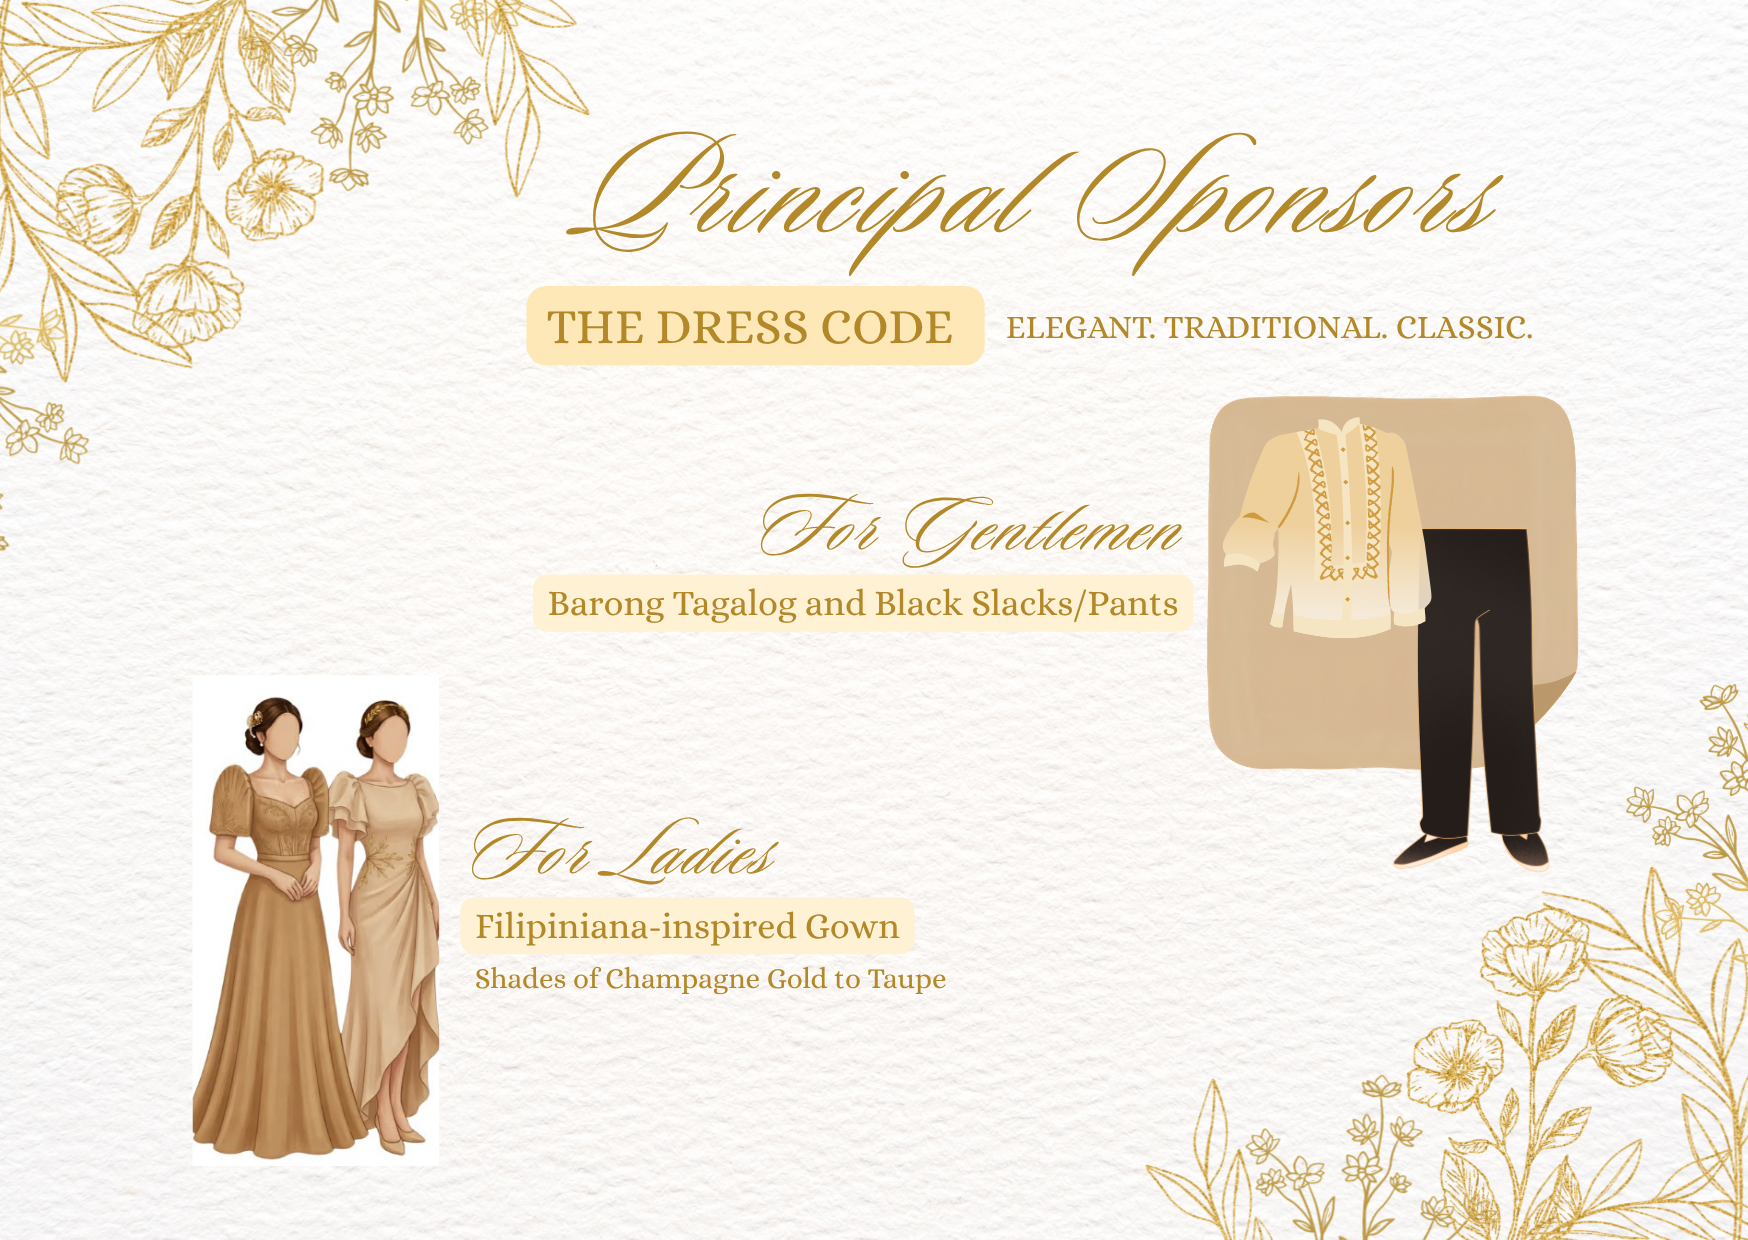
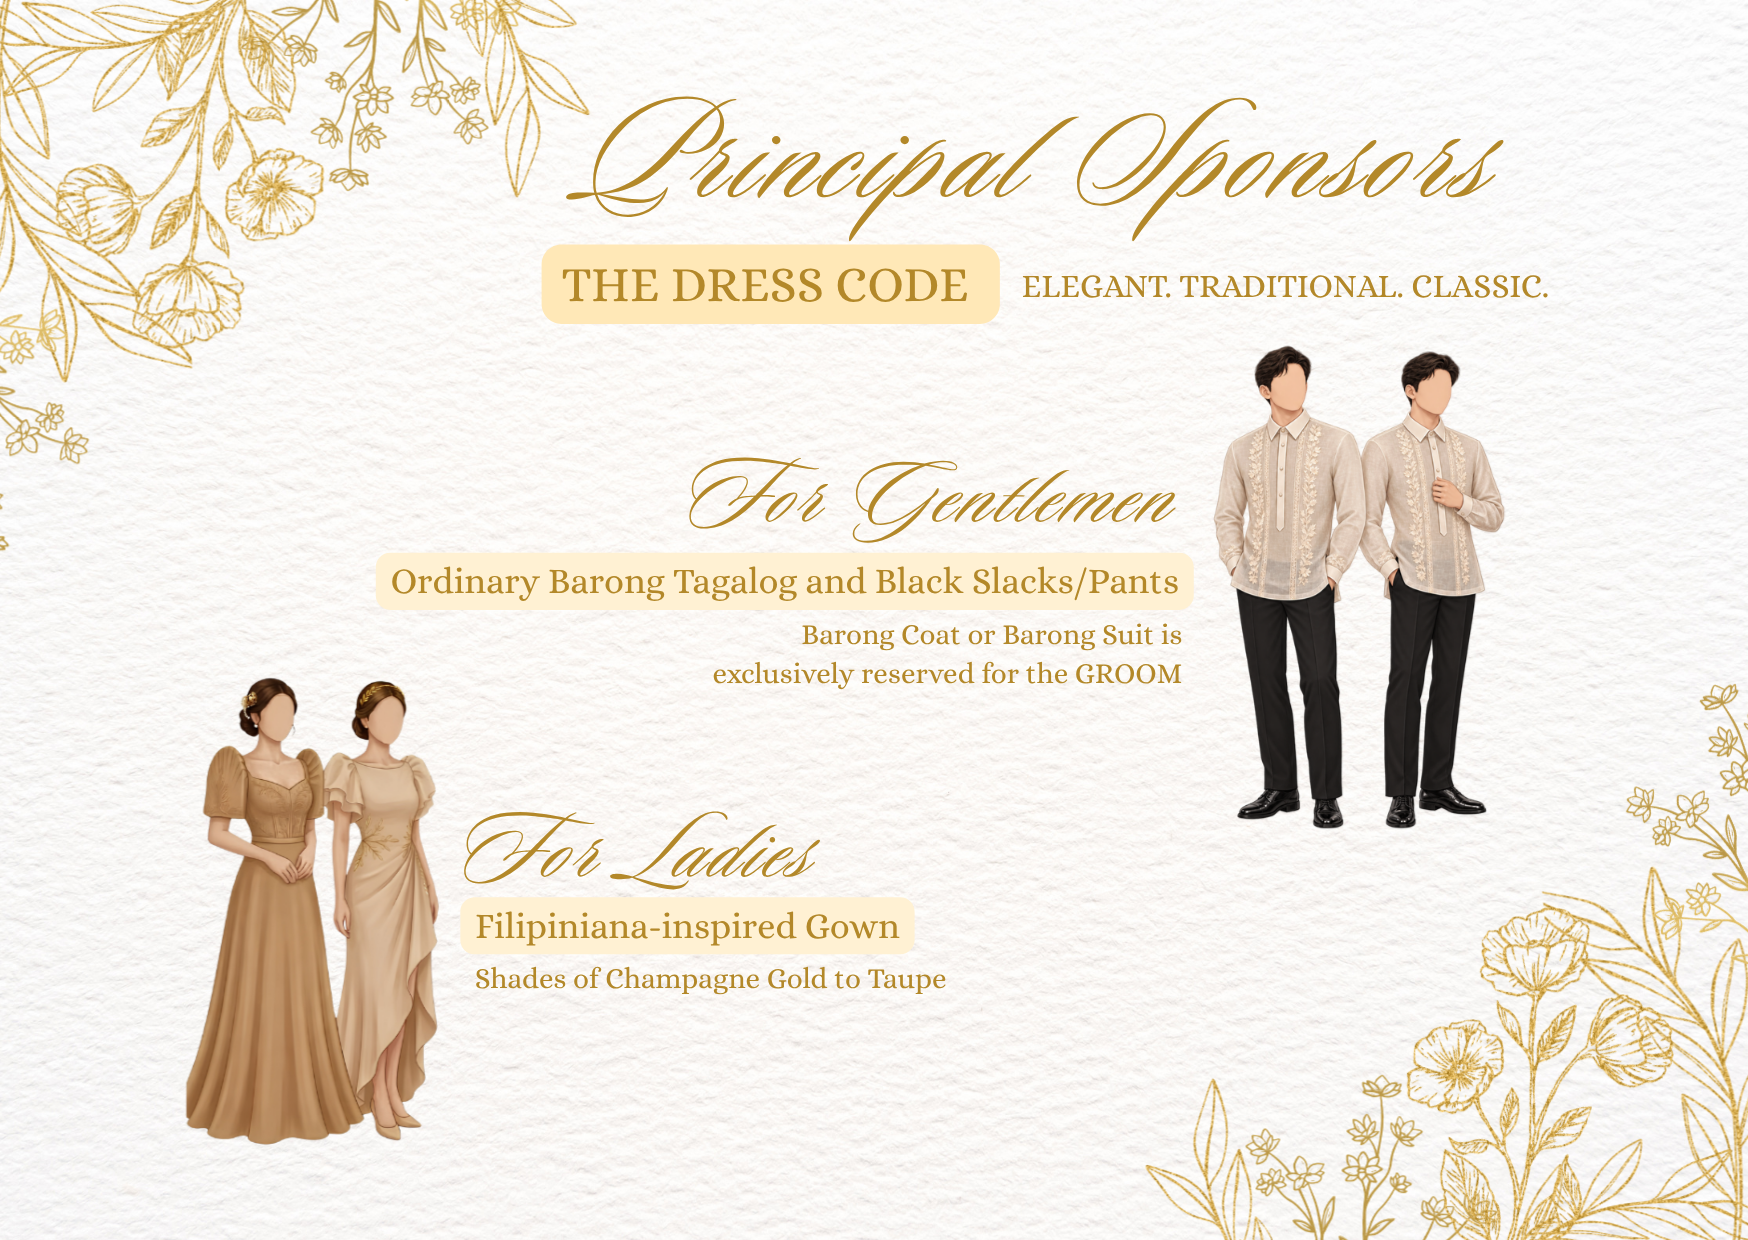
dress code, monogram

Changed region(s): [[0.2162, 0.0919, 0.9268, 0.7048], [0.0927, 0.5516, 0.4634, 0.95]]

diff --git a/src/components/DressCode.tsx b/src/components/DressCode.tsx
@@ -1,12 +1,36 @@
+import { useState } from "react";
 import { motion } from "framer-motion";
 import { wedding } from "../content/weddingContent";
 import { SectionHeading } from "./SectionHeading";
-import { MediaGrid } from "./MediaGrid";
+import { Lightbox } from "./Lightbox";
+import { useMedia } from "../hooks/useMedia";
+import type { MediaItem } from "../lib/supabase";
 import { FloralCorner, ROSE_BOUQUET, ROSE_SPRAY } from "./decor/FloralAccents";
 
 const { dressCode } = wedding;
 
+/** The cards that ship with the site, shaped like uploaded rows. */
+const BUNDLED_CARDS: MediaItem[] = wedding.assets.attireCards.map(
+  (card, index) => ({
+    id: `bundled-attire-${index}`,
+    category: "dress_code",
+    media_type: "image",
+    url: card.src,
+    caption: card.caption,
+    sort_order: index,
+  }),
+);
+
 export function DressCode() {
+  // Uploaded cards stand in for the bundled pair rather than queueing up
+  // behind them: they are the same two cards re-exported, and showing both
+  // sets would print the dress code twice. Re-exporting from Canva and
+  // running `npm run upload-media` therefore needs no redeploy, while the
+  // bundled copies keep the section filled if Supabase is unreachable.
+  const { items: uploaded } = useMedia("dress_code");
+  const cards = uploaded.length > 0 ? uploaded : BUNDLED_CARDS;
+  const [activeIndex, setActiveIndex] = useState<number | null>(null);
+
   return (
     <section
       id="dress-code"
@@ -61,37 +85,39 @@ export function DressCode() {
           ))}
         </div>
 
-        {/* The wedding palette, offered to guests as colour guidance. */}
-        <motion.div
-          initial={{ opacity: 0, y: 22 }}
-          whileInView={{ opacity: 1, y: 0 }}
-          viewport={{ once: true, amount: 0.4 }}
-          transition={{ duration: 0.8 }}
-          className="mt-14 text-center"
-        >
-          <h3 className="font-display text-base uppercase tracking-[0.24em] text-maroon-900 sm:text-lg">
-            Our Colour Palette
-          </h3>
-          <ul className="mt-8 flex flex-wrap items-start justify-center gap-6 sm:gap-9">
-            {dressCode.palette.map((swatch) => (
-              <li key={swatch.hex} className="w-20 sm:w-24">
-                <span
-                  className="mx-auto block aspect-square w-full rounded-full shadow-[0_10px_26px_-14px_rgba(63,10,10,0.7)] ring-1 ring-inset ring-maroon-950/25"
-                  style={{ backgroundColor: swatch.hex }}
-                  aria-hidden="true"
-                />
-                <span className="mt-3 block font-body text-base font-medium uppercase tracking-[0.06em] text-ink/85">
-                  {swatch.name}
-                </span>
-              </li>
-            ))}
-          </ul>
-        </motion.div>
-
-        <div className="mt-14">
-          <MediaGrid category="dress_code" columns="three" hideWhenEmpty />
+        {/* One card per row, uncropped and at the full width of the sheet.
+            Side by side they would be about half this wide, and the small
+            print on them — the shades, the "no jeans" line — stops being
+            readable well before that. They are still tight on a phone, so
+            each one opens full-screen to be pinched. */}
+        <div className="mt-14 space-y-8 sm:space-y-10">
+          {cards.map((card, index) => (
+            <motion.button
+              key={card.id}
+              type="button"
+              onClick={() => setActiveIndex(index)}
+              initial={{ opacity: 0, y: 24 }}
+              whileInView={{ opacity: 1, y: 0 }}
+              viewport={{ once: true, amount: 0.25 }}
+              transition={{ duration: 0.75, delay: Math.min(index, 4) * 0.08 }}
+              className="painted-edge block w-full cursor-zoom-in overflow-hidden border border-gold-deep/35 shadow-[0_18px_44px_-26px_rgba(63,10,10,0.75)] transition-transform duration-500 hover:-translate-y-1"
+              aria-label={`${card.caption ?? "Dress code card"} — tap to enlarge`}
+            >
+              <img
+                src={card.url}
+                alt={card.caption ?? ""}
+                loading="lazy"
+                className="block w-full"
+              />
+            </motion.button>
+          ))}
         </div>
       </div>
+
+      <Lightbox
+        item={activeIndex === null ? null : (cards[activeIndex] ?? null)}
+        onClose={() => setActiveIndex(null)}
+      />
     </section>
   );
 }

diff --git a/src/content/weddingContent.ts b/src/content/weddingContent.ts
@@ -50,7 +50,7 @@ export const wedding = {
       time: "3:00 PM",
       venue: "Viridis Countryside Garden",
       address: "A. Mabini St, Amadeo, 4119 Cavite",
-      note: "Kindly be seated by 2:30 PM.",
+      // note: "Kindly be seated by 2:30 PM.",
     },
   ],
 
@@ -81,17 +81,9 @@ export const wedding = {
   /* ---- Dress code --------------------------------------------- */
   dressCode: {
     title: "Formal / Semi-Formal",
-    ladies: "Long dress or elegant cocktail dress in the palette below.",
-    gentlemen: "Barong Tagalog or suit, paired with dark slacks.",
+    ladies: "Elegant long dress in the palette below.",
+    gentlemen: "Barong Tagalog, paired with chocolate brown slacks.",
     // note: "We kindly ask our guests to avoid wearing white, ivory or cream.",
-    // The wedding palette, shown to guests as colour guidance.
-    palette: [
-      { name: "Deep Maroon", hex: "#7A1010" },
-      { name: "Burgundy", hex: "#5C0D0D" },
-      { name: "Cream", hex: "#FBF0DC" },
-      { name: "Antique Gold", hex: "#C9A05B" },
-      { name: "Champagne", hex: "#E3CDA8" },
-    ],
   },
 
   /* ---- RSVP ---------------------------------------------------- */
@@ -99,7 +91,7 @@ export const wedding = {
     // TODO: confirm. Set to about two and a half weeks before the day.
     deadlineLabel: "September 30, 2026",
     intro:
-      "Kindly let us know if you can join us. We have reserved seats for the names on your invitation.",
+      "Let us know if you can make it! We have seats saved just for you.",
     // Guests cannot request more seats than this.
     maxPartySize: 6,
     thankYouTitle: "Thank you!",
@@ -129,6 +121,16 @@ export const wedding = {
     // only ever fetched once that happens — see the note on <audio> in App.
     themeSong: "/theme/themesong.mp3",
     mainPicture: "/theme/main_picture.webp",
+    // The JL crest, standing over a section heading. Keyed off the white it
+    // was drawn on. Two cuts, because one cannot serve both grounds: the
+    // artwork's own deep gold is drawn for paper, and composited onto the
+    // maroon it lands at about (126,69,4) against a (63,10,10) panel —
+    // present, but barely. The panel cut is repainted champagne and its
+    // filigree lifted out of half-opacity.
+    monogramMark: {
+      onPaper: "/theme/monogram.webp",
+      onPanel: "/theme/monogram-light.webp",
+    },
     // Gold rose artwork. The order is fixed — decor/FloralAccents names
     // each one by shape, and the components pick by shape, not by number.
     goldRoses: [
@@ -157,6 +159,21 @@ export const wedding = {
       // petals arc down the side — bottom-right corner
       side: "/theme/grose-corner-side.webp",
     },
+    // The attire cards, in place of the swatch list that used to stand
+    // here: each carries its palette, silhouettes and rules as one piece of
+    // artwork. Uploading dress_code media through Supabase takes over from
+    // these rather than adding to them — see the note in DressCode.
+    attireCards: [
+      {
+        src: "/theme/attire-sponsors.webp",
+        caption:
+          "The dress code for principal sponsors: barong and Filipiniana, champagne gold to taupe",
+      },
+      {
+        src: "/theme/attire-guests.webp",
+        caption: "The dress code for bridesmaids, groomsmen and guests",
+      },
+    ],
     // The Highlights gallery. These ship with the site and appear ahead of
     // anything later added through Supabase. The caption is used as the
     // photo's alt text too, so keep it descriptive as well as fond.

diff --git a/src/components/decor/FloralAccents.tsx b/src/components/decor/FloralAccents.tsx
@@ -14,6 +14,9 @@ const [ROSE_BOUQUET, ROSE_CREST, ROSE_CASCADE] = wedding.assets.redGoldRoses;
 const ROSE_CRESCENT_TOP = wedding.assets.redRoseCrescent.top;
 const ROSE_CRESCENT_SIDE = wedding.assets.redRoseCrescent.side;
 
+const MONOGRAM_ON_PAPER = wedding.assets.monogramMark.onPaper;
+const MONOGRAM_ON_PANEL = wedding.assets.monogramMark.onPanel;
+
 type Corner = "tl" | "tr" | "bl" | "br";
 
 // A small inset keeps the trimmed artwork fully on the page instead of
@@ -91,6 +94,34 @@ function Rule({ side }: { side: "left" | "right" }) {
       ? "bg-gradient-to-r from-transparent via-gold/60 to-gold"
       : "bg-gradient-to-l from-transparent via-gold/60 to-gold";
   return <span className={`h-px w-16 sm:w-28 ${gradient}`} />;
+}
+
+/**
+ * The JL crest, small, standing over a section's opening lines. Kept to a
+ * mark rather than a centrepiece: it repeats down the page, and at any real
+ * size it would compete with the script headings it introduces.
+ */
+export function MonogramMark({
+  className = "",
+  size = "w-16 sm:w-20",
+  onDark = false,
+}: {
+  className?: string;
+  size?: string;
+  /** Set on the deep red panels, which get the champagne cut of the crest. */
+  onDark?: boolean;
+}) {
+  return (
+    <img
+      src={onDark ? MONOGRAM_ON_PANEL : MONOGRAM_ON_PAPER}
+      alt=""
+      aria-hidden="true"
+      loading="lazy"
+      className={`pointer-events-none mx-auto select-none ${
+        onDark ? "floral-on-dark" : ""
+      } ${size} ${className}`}
+    />
+  );
 }
 
 /** Small gold ornament for headings. */

diff --git a/src/components/EventDetails.tsx b/src/components/EventDetails.tsx
@@ -4,6 +4,7 @@ import { SectionHeading } from "./SectionHeading";
 import {
   FloralCorner,
   FloralDivider,
+  MonogramMark,
   ROSE_COLUMN,
   ROSE_CREST,
 } from "./decor/FloralAccents";
@@ -38,6 +39,7 @@ export function EventDetails() {
       />
 
       <div className="relative mx-auto max-w-5xl">
+        <MonogramMark className="mb-5" onDark />
         <SectionHeading
           script="The Wedding Celebration"
           title="Order of the Day"
@@ -72,11 +74,6 @@ export function EventDetails() {
                 {event.venue}
               </p>
               <p className="mt-2 text-lg text-cream/85">{event.address}</p>
-              {event.note && (
-                <p className="mt-6 border-t border-gold/40 pt-5 text-lg italic text-gold-soft sm:text-xl">
-                  {event.note}
-                </p>
-              )}
             </motion.article>
           ))}
         </div>

diff --git a/src/components/Hero.tsx b/src/components/Hero.tsx
@@ -1,7 +1,13 @@
 import { motion } from "framer-motion";
 import { wedding } from "../content/weddingContent";
 import { Countdown } from "./Countdown";
-import { FloralCorner, Ornament, ROSE_COLUMN, ROSE_SWAG } from "./decor/FloralAccents";
+import {
+  FloralCorner,
+  MonogramMark,
+  Ornament,
+  ROSE_COLUMN,
+  ROSE_SWAG,
+} from "./decor/FloralAccents";
 
 const fadeUp = {
   initial: { opacity: 0, y: 26 },
@@ -33,6 +39,10 @@ export function Hero() {
       />
 
       <div className="relative mx-auto max-w-4xl text-center">
+        <motion.div {...fadeUp} transition={{ duration: 0.8 }}>
+          <MonogramMark className="mb-5" />
+        </motion.div>
+
         <motion.p
           {...fadeUp}
           transition={{ duration: 0.8, delay: 0.1 }}

diff --git a/src/components/RsvpForm.tsx b/src/components/RsvpForm.tsx
@@ -11,6 +11,7 @@ import { SectionHeading } from "./SectionHeading";
 import {
   FloralCorner,
   FloralDivider,
+  MonogramMark,
   ROSE_HEART,
 } from "./decor/FloralAccents";
 
@@ -108,6 +109,7 @@ export function RsvpForm() {
       />
 
       <div className="relative mx-auto max-w-2xl">
+        <MonogramMark className="mb-5" onDark />
         <SectionHeading
           script="Will you join us?"
           title="RSVP"
